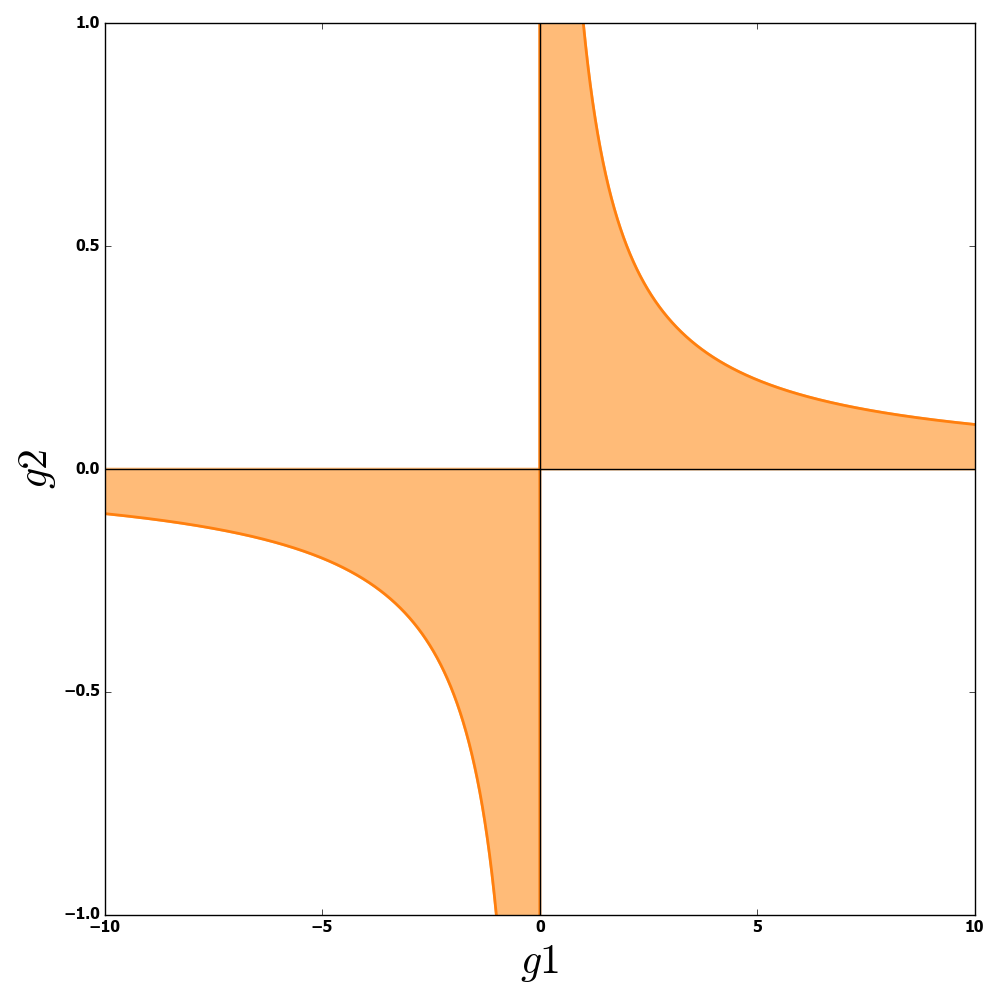
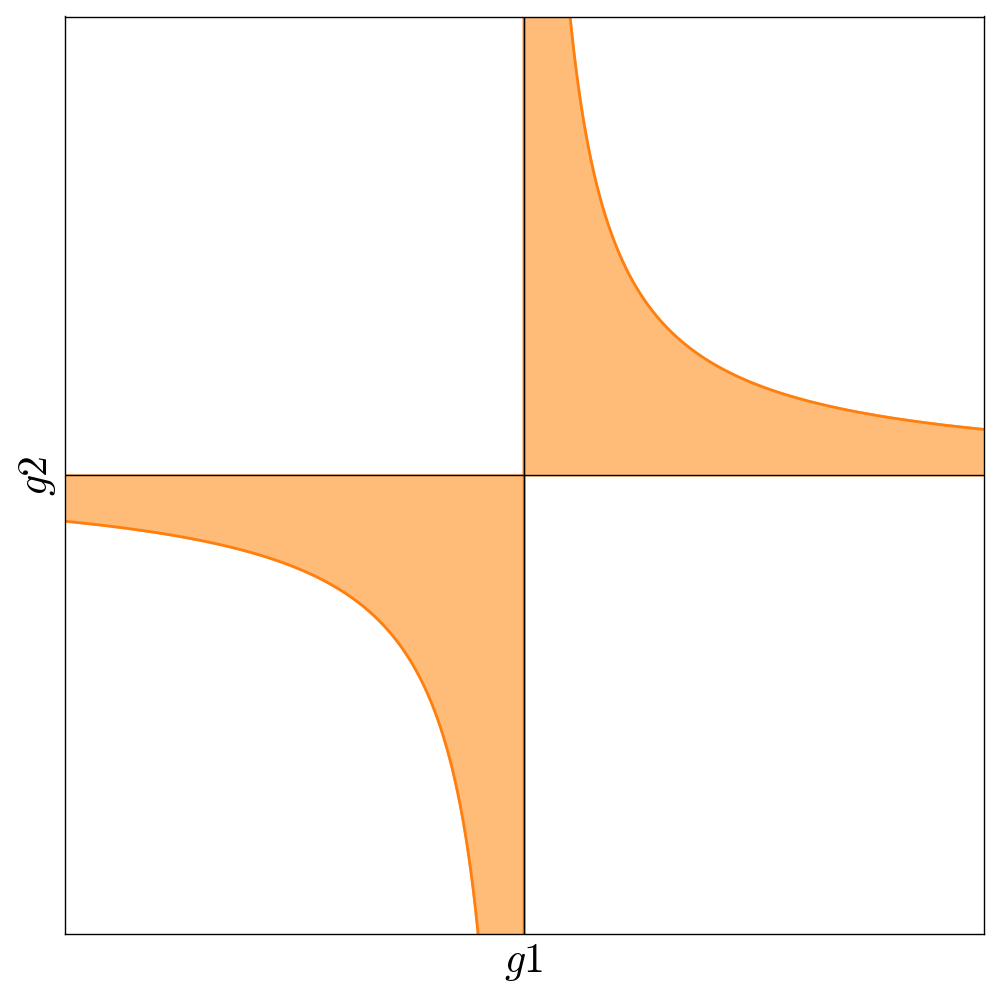
removed ticks

diff --git a/LaserPlasmaAcc/SimpleFigures.py b/LaserPlasmaAcc/SimpleFigures.py
@@ -32,7 +32,8 @@ g1_t = np.append(np.arange(-10, -0.001, 0.001), np.arange(0.001, 10, 0.001))
 g2_t = [g2_f(g1) for g1 in g1_t]
 
 fig = plt.figure(1, figsize=(10,10), dpi=80, facecolor='w', edgecolor='k')
-
+plt.xticks([])
+plt.yticks([])
 # Plot theta as a function of time
 ax1 = fig.add_subplot(111)
 ax1.plot(g1_t, g2_t, linewidth=2, color=tableau20[2])
@@ -43,6 +44,7 @@ ax1.set_ylabel('$g2$', fontsize=30)
 ax1.set_ylim(-1., 1.)
 ax1.axhline(0, color='black')
 ax1.axvline(0, color='black')
+
 
 plt.tight_layout()
 #plt.show()
